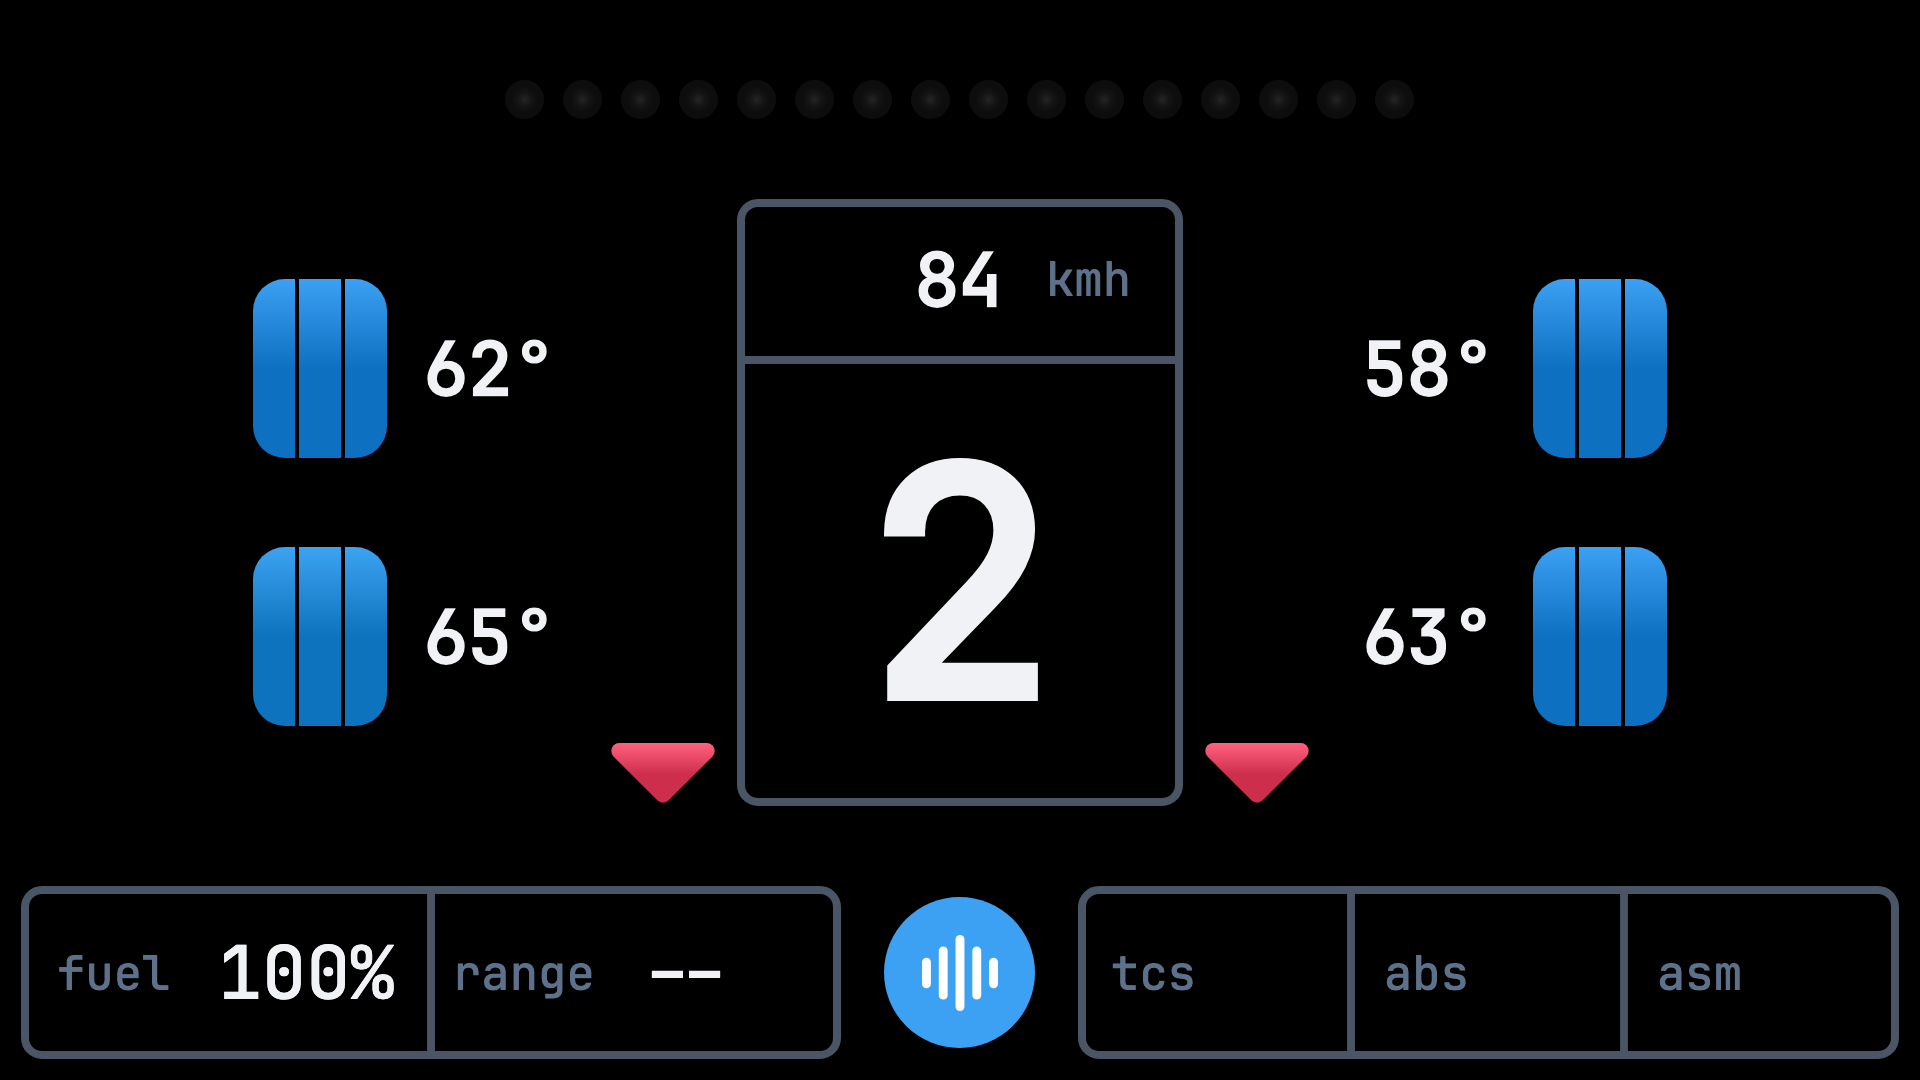
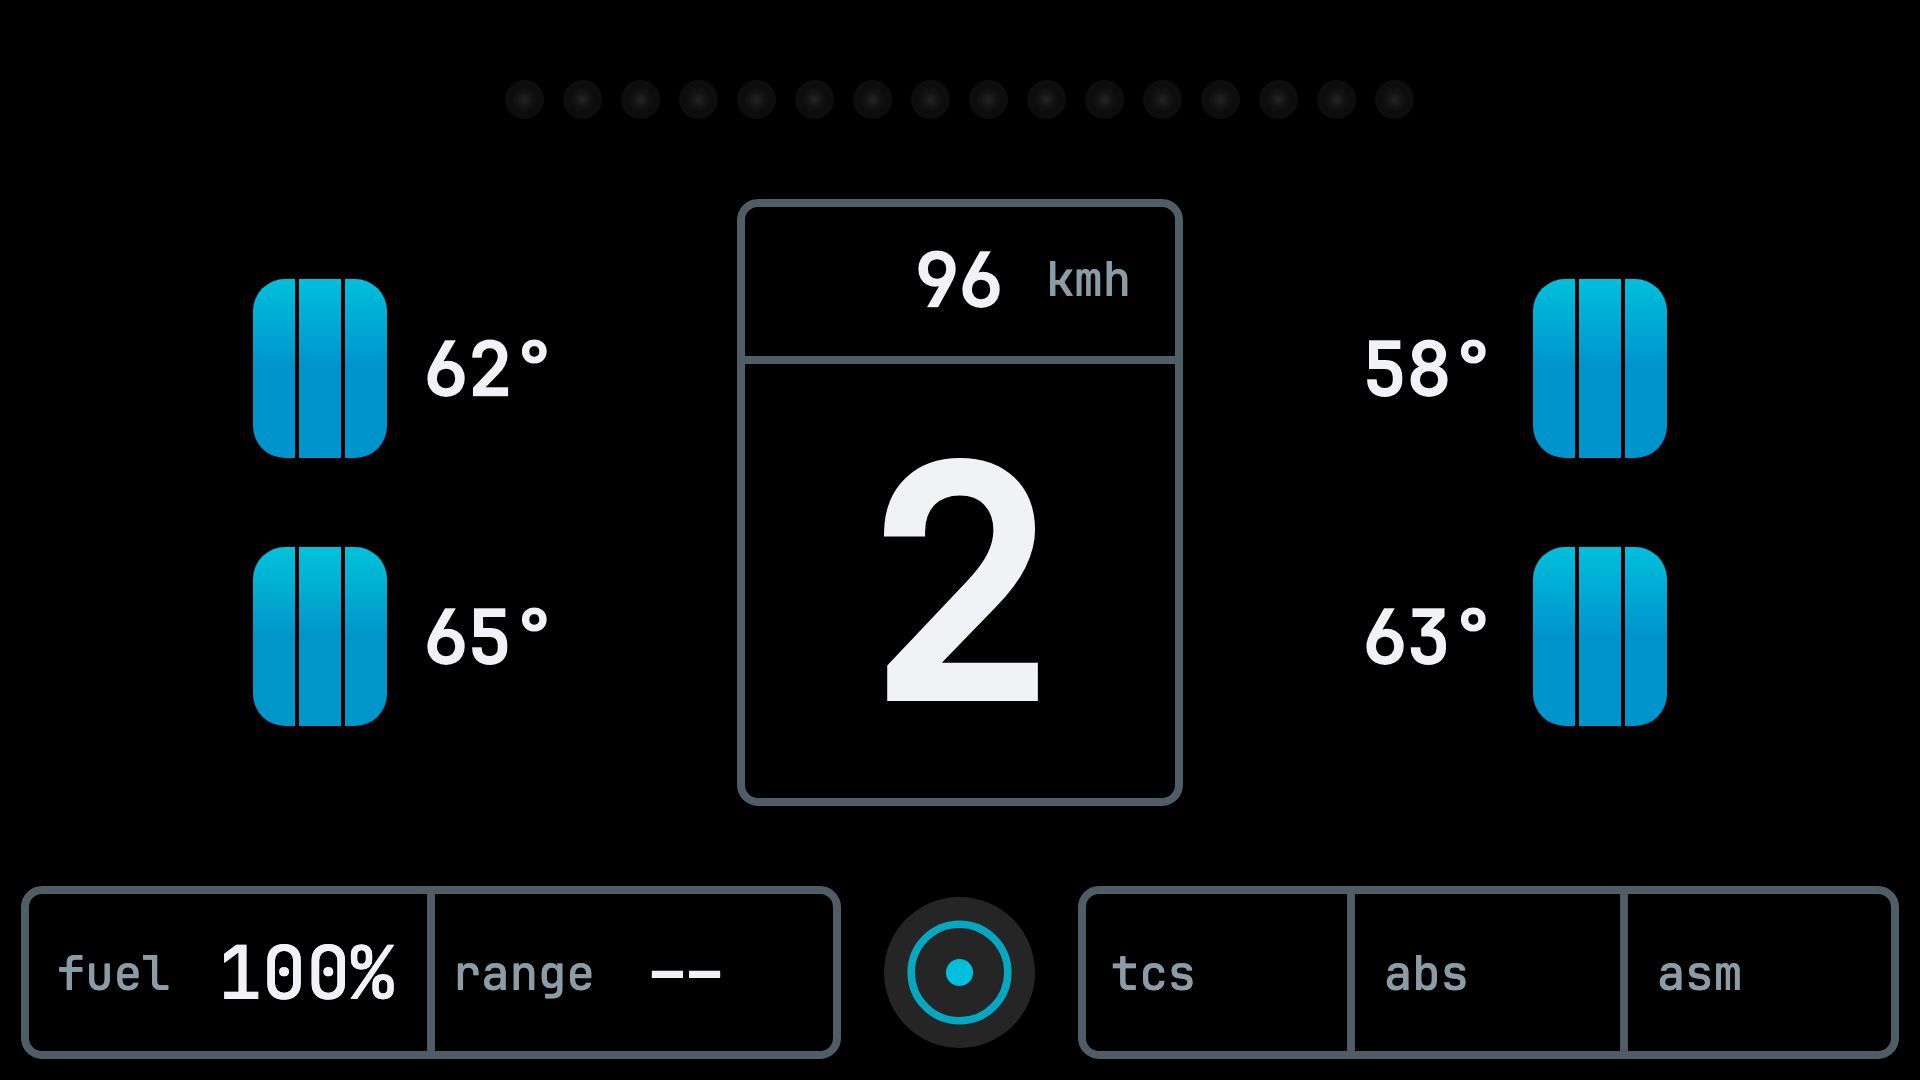
feat(website): add an Alpine screenshot gallery to the Guido page
The product page showed four hand-copied stills in a 2x2 grid, three of which
no longer matched the app: the searching screen is gone, the fuel shot had no
source render left, and the settings alt text still mentioned community
credits. It was the last place the retired screens survived.

The grid is now a gallery driven by one front-matter `screens` list, so a shot
exists in exactly one place. Alpine swaps the visible slide with prev/next
chevrons, a 01/06 counter and a thumbnail strip; arrow keys work while the
stage is focused. The slides stay ordinary <img> tags so the Eleventy image
plugin still optimises them, and the first slide needs no JS.

The images come from the refreshed store renders, with 512px thumbnails so the
strip does not pull six 1920-wide files. screen-fuel.png and
screen-searching.png are deleted rather than left unreferenced, and the gallery
styles are built from the existing tokens with Guido's mint/blue accent.

Verified: npm run build optimises the twelve Guido images (1920 slides, 512
thumbs; 1-34 KB per modern-format file) and Prettier passes on both files.

diff --git a/website/src/assets/css/guido.css b/website/src/assets/css/guido.css
@@ -169,46 +169,205 @@
   padding: 5rem 0;
 }
 
-.product-screens-grid {
-  display: grid;
-  grid-template-columns: repeat(2, 1fr);
-  gap: 1.5rem;
+/* Screenshot gallery: one large stage plus a thumbnail strip. Alpine swaps
+   which slide is visible, so every image is a normal <img> the Eleventy image
+   plugin can still transform, and the first slide shows without JS. */
+.guido-gallery {
+  --guido-gallery-accent: light-dark(#00987a, #33ffb9);
   max-width: var(--max-width);
   margin: 0 auto;
 }
 
-.product-screen {
+.guido-gallery__stage {
+  position: relative;
   border: 1px solid var(--border-color);
-  border-radius: 10px;
-  overflow: hidden;
+  border-radius: var(--ds-radius-lg);
   background: #000;
+  overflow: hidden;
   box-shadow: 0 2px 8px var(--shadow-color-sm);
-  transition:
-    transform 0.2s ease,
-    box-shadow 0.2s ease;
 }
 
-.product-screen:hover {
-  transform: translateY(-4px);
-  box-shadow: 0 4px 16px var(--shadow-color-md);
+.guido-gallery__stage:focus-visible {
+  outline: none;
+  border-color: var(--guido-gallery-accent);
+  box-shadow: 0 0 0 3px
+    color-mix(in srgb, var(--guido-gallery-accent), transparent 75%);
 }
 
-.product-screen img {
+.guido-gallery__slide {
+  margin: 0;
+}
+
+.guido-gallery__slide[hidden] {
+  display: none;
+}
+
+.guido-gallery__slide img {
   display: block;
   width: 100%;
   height: auto;
 }
 
-.product-screen picture {
-  display: block;
+.guido-gallery__caption {
+  display: flex;
+  align-items: baseline;
+  gap: 0.75rem;
+  min-height: 3.25rem;
+  padding: 1rem 1.25rem;
+  border-top: 1px solid var(--border-color);
+  background: color-mix(in srgb, var(--card-bg), transparent 35%);
+  font-size: 0.9rem;
+  color: var(--text-secondary);
 }
 
-.product-screen-caption {
-  font-size: 0.85rem;
+.guido-gallery__label {
+  flex-shrink: 0;
+  font-family: var(--font-mono);
+  font-size: 0.7rem;
+  font-weight: 700;
+  text-transform: uppercase;
+  letter-spacing: 0.08em;
+  color: var(--guido-gallery-accent);
+}
+
+.guido-gallery__nav {
+  position: absolute;
+  top: 50%;
+  transform: translateY(-50%);
+  display: flex;
+  align-items: center;
+  justify-content: center;
+  width: 44px;
+  height: 44px;
+  padding: 0;
+  border: 1px solid var(--border-color);
+  border-radius: var(--ds-radius-full);
+  background: color-mix(in srgb, var(--bg), transparent 25%);
+  color: var(--text);
+  cursor: pointer;
+  backdrop-filter: blur(6px);
+  transition:
+    border-color 0.15s ease,
+    color 0.15s ease;
+}
+
+.guido-gallery__nav:hover {
+  border-color: var(--guido-gallery-accent);
+  color: var(--guido-gallery-accent);
+}
+
+.guido-gallery__nav svg {
+  width: 20px;
+  height: 20px;
+}
+
+.guido-gallery__nav--prev {
+  left: 1rem;
+}
+
+.guido-gallery__nav--next {
+  right: 1rem;
+}
+
+.guido-gallery__counter {
+  position: absolute;
+  top: 1rem;
+  right: 1rem;
+  padding: 0.25rem 0.6rem;
+  border: 1px solid var(--border-color);
+  border-radius: var(--ds-radius-sm);
+  background: color-mix(in srgb, var(--bg), transparent 25%);
+  font-family: var(--font-mono);
+  font-size: 0.75rem;
+  letter-spacing: 0.05em;
   color: var(--text-secondary);
+  backdrop-filter: blur(6px);
+}
+
+.guido-gallery__thumbs {
+  display: grid;
+  grid-template-columns: repeat(6, 1fr);
+  gap: 0.6rem;
+  margin-top: 1rem;
+}
+
+.guido-gallery__thumb {
+  position: relative;
+  display: block;
+  padding: 0;
+  border: 1px solid var(--border-color);
+  border-radius: var(--ds-radius-md);
+  background: #000;
+  overflow: hidden;
+  cursor: pointer;
+  opacity: 0.55;
+  transition:
+    opacity 0.15s ease,
+    border-color 0.15s ease,
+    transform 0.15s ease;
+}
+
+.guido-gallery__thumb:hover {
+  opacity: 0.85;
+  transform: translateY(-2px);
+}
+
+.guido-gallery__thumb.is-active {
+  opacity: 1;
+  border-color: var(--guido-gallery-accent);
+  box-shadow: 0 0 0 1px var(--guido-gallery-accent);
+}
+
+.guido-gallery__thumb img {
+  display: block;
+  width: 100%;
+  height: auto;
+}
+
+.guido-gallery__thumb-label {
+  position: absolute;
+  right: 0;
+  bottom: 0;
+  left: 0;
+  padding: 0.3rem 0.4rem;
+  background: linear-gradient(to top, rgb(0 0 0 / 85%), transparent);
+  font-family: var(--font-mono);
+  font-size: 0.62rem;
+  text-transform: uppercase;
+  letter-spacing: 0.06em;
+  color: #fff;
   text-align: center;
-  padding: 0.75rem 1rem;
-  margin: 0;
+  opacity: 0;
+  transition: opacity 0.15s ease;
+}
+
+.guido-gallery__thumb:hover .guido-gallery__thumb-label,
+.guido-gallery__thumb.is-active .guido-gallery__thumb-label {
+  opacity: 1;
+}
+
+@media (max-width: 768px) {
+  .guido-gallery__thumbs {
+    grid-template-columns: repeat(3, 1fr);
+  }
+
+  .guido-gallery__nav {
+    width: 38px;
+    height: 38px;
+  }
+
+  .guido-gallery__nav--prev {
+    left: 0.5rem;
+  }
+
+  .guido-gallery__nav--next {
+    right: 0.5rem;
+  }
+
+  .guido-gallery__counter {
+    top: 0.5rem;
+    right: 0.5rem;
+  }
 }
 
 /* The dashboard and the co-driver are the product; the other cards support
@@ -405,10 +564,6 @@
 }
 
 @media (max-width: 768px) {
-  .product-screens-grid {
-    grid-template-columns: 1fr;
-  }
-
   .product-tiers-grid {
     grid-template-columns: 1fr;
   }
